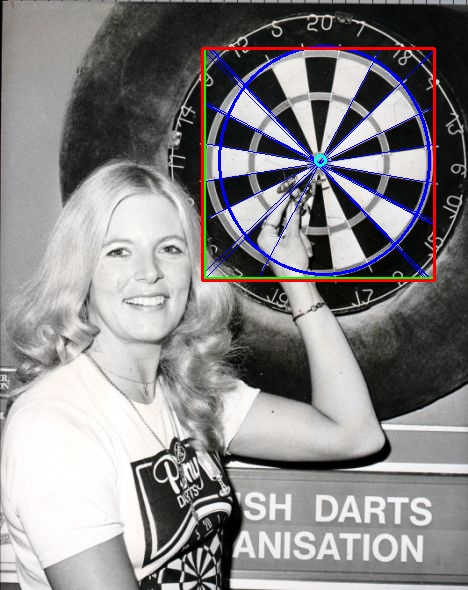
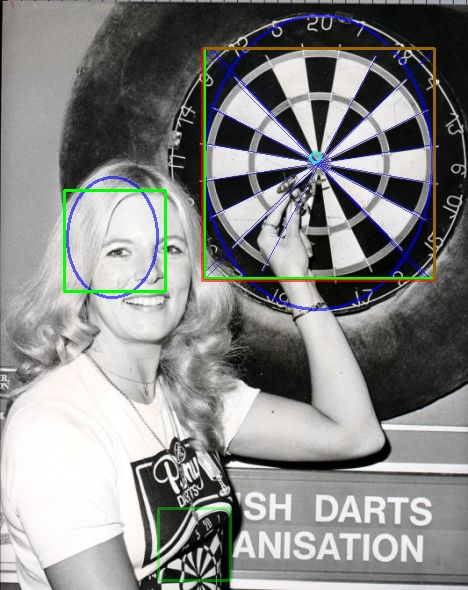
only search for ellipses around intersection of lines

diff --git a/hough.py b/hough.py
@@ -69,7 +69,7 @@ def hough_lines(image, threshold=70):
                 lines.append([p1, p2])
     return np.asarray(lines)
 
-def hough_ellipse(edges, leastVotes = 10, leastDistance = 40, min_b = 40, min_a = 40):
+def hough_ellipse(edges, leastVotes = 50, leastDistance = 20, min_b = 40, min_a = 40, centre=None, min_c=20):
     detected = []
     detectedvotes=[]
     height = edges.shape[0]
@@ -79,7 +79,7 @@ def hough_ellipse(edges, leastVotes = 10, leastDistance = 40, min_b = 40, min_a 
     nonzeros = np.array(list(zip(ys, xs)))
     # accumulator size of maximum minor axis length which is half of the width or height of the image
     # 2 clear accumulator
-    accumulator = np.zeros(int(np.maximum(height , width)/2))
+    accumulator = np.zeros(int(np.minimum(height , width)/2))
     # 3 for each pixel
     for p1 in nonzeros:
         y1, x1 = p1
@@ -95,8 +95,17 @@ def hough_ellipse(edges, leastVotes = 10, leastDistance = 40, min_b = 40, min_a 
                     y0 = (y1 + y2)/2
                     a = np.sqrt((x2-x1)**2 + (y2 - y1)**2)/2
                     alpha = np.arctan((y2 - y1)/(x2 - x1))
-                    # theshold a values
-                    if a > min_a and x0 > 0.45*width and x0 < 0.55*width and y0 > 0.45*height and y0 < 0.55*height:
+                    # theshold a, x0 and y0 vlues
+                    valid = False  
+                    if a > min_a:    
+                        if np.all(centre == None):              
+                            if x0 > 0.45*width and x0 < 0.55*width and y0 > 0.45*height and y0 < 0.55*height:
+                                valid = True
+                        else:
+                            xc, yc = centre
+                            if x0 > xc-min_c  and x0 < xc+min_c and y0 > yc-min_c and y0 < yc+min_c:
+                                valid =True
+                    if valid:
                     # 6 for each third pixel
                         for p3 in nonzeros:
                             y3, x3 = p3
@@ -113,7 +122,7 @@ def hough_ellipse(edges, leastVotes = 10, leastDistance = 40, min_b = 40, min_a 
                                 sin2_tau = 1-(cos2_tau)
                                 b = np.sqrt((a**2 * d03**2 * sin2_tau)/(a**2 - (d03**2 * cos2_tau)))
                                 # 8 update accumulator for length b (also threshold b)
-                                if b>=min_b and b < len(accumulator) and b > 0.66*a:
+                                if b >= 0.66*a and b < len(accumulator):
                                     accumulator[int(b)] += 1
                         # 10 find maximum element in accumulator array
                         b = np.argmax(accumulator)
@@ -130,8 +139,8 @@ def hough_ellipse(edges, leastVotes = 10, leastDistance = 40, min_b = 40, min_a 
                                 y, x = pixel
                                 X = x - x0
                                 Y = y - y0
-                                if np.round((((X*np.cos(alpha) + Y*np.sin(alpha))**2)/a**2) + (((X*np.sin(alpha) + Y*np.cos(alpha))**2)/b**2)) == 1:
-                                    edges[y, x] = 0
+                                # if np.round((((X*np.cos(alpha) + Y*np.sin(alpha))**2)/a**2) + (((X*np.sin(alpha) + Y*np.cos(alpha))**2)/b**2)) == 1:
+                                #     edges[y, x] = 0
                             ys, xs = np.nonzero(edges)
                             nonzeros = np.array(list(zip(ys, xs)))
 

diff --git a/framework.py b/framework.py
@@ -6,7 +6,7 @@ import matplotlib.pyplot as plt
 from matplotlib import cm
 from numpy import unravel_index
 
-from eval import eval
+from eval import eval, iou, iouThreshold
 from hough import hough_lines, hough_ellipse
 
 path = 'images/positives/'
@@ -71,7 +71,7 @@ def detect(image, scaleFactor=1.2, minNeighbors=1.7):
         minNeighbors = 1
     img = cv.imread('images/positives/'+image)
     output = img.copy()
-    output2 = img.copy()
+    overlay = img.copy()
 
     gray = cv.cvtColor(img, cv.COLOR_BGR2GRAY)
     gray = cv.equalizeHist(gray)
@@ -80,12 +80,15 @@ def detect(image, scaleFactor=1.2, minNeighbors=1.7):
 
     # highlights regions of interest and draws them onto the image.
     ROIs = []
+    tmp_faces = []
     final_faces = []
+
+
     for (x,y,w,h) in faces:
-        # output = cv.rectangle(output,(x,y),(x+w,y+h),(0,255,0),2)
+        overlay = cv.rectangle(overlay,(x,y),(x+w,y+h),(0,255,0),2)
 
         roi = img[y:y+h, x:x+w]
-        edges = cv.Canny(image=roi, threshold1 = 100, threshold2 = 500 )
+        edges = cv.Canny(image=roi, threshold1 = 100, threshold2 = 200 )
         lines = hough_lines(image=edges)
         intersections = []
         if(len(lines) > 0):
@@ -100,15 +103,17 @@ def detect(image, scaleFactor=1.2, minNeighbors=1.7):
                         if p != None:
                             intersections.append(p)
         
+        centre = None
         if(len(intersections)>0):
             intersections = np.asarray(intersections)
             meanx = np.mean(intersections[:, 0])
             meany = np.mean(intersections[:, 1])
-            cv.circle(output, (int(np.round(meanx))+x, int(np.round(meany))+y), 5, (255, 255, 0), 2)
+            centre = (int(np.round(meanx)), int(np.round(meany)))
+            cv.circle(output,  (int(np.round(meanx))+x, int(np.round(meany))+y), 5, (255, 255, 0), 2)
 
-        edges = cv.Canny(image=roi, threshold1=100, threshold2=1000)
+        edges = cv.Canny(image=roi, threshold1=100, threshold2=250)
         cv.imwrite('edges.jpg', edges)
-        ellipses = hough_ellipse(edges)
+        ellipses = hough_ellipse(edges, centre = centre)
         if np.all(ellipses) != None:
             for ellipse in ellipses:
                 x0, y0, a, b, alpha = ellipse
@@ -118,7 +123,7 @@ def detect(image, scaleFactor=1.2, minNeighbors=1.7):
         else:
             ellipses = []
 
-        if len(lines) > 3 and len(ellipses) > 0 :
+        if len(ellipses) > 0 :
             x0,  y0,  a, b,  alpha = ellipses[0]
             x0 += x
             y0 += y
@@ -137,6 +142,7 @@ def detect(image, scaleFactor=1.2, minNeighbors=1.7):
 
 
 #displays the image with roi
+    output = cv.addWeighted(overlay, 0.4, output, 1 - 0.4, 0)
     cv.imwrite('images/detected/'+image,output)
     return eval(groundTruths[image], final_faces)
 
